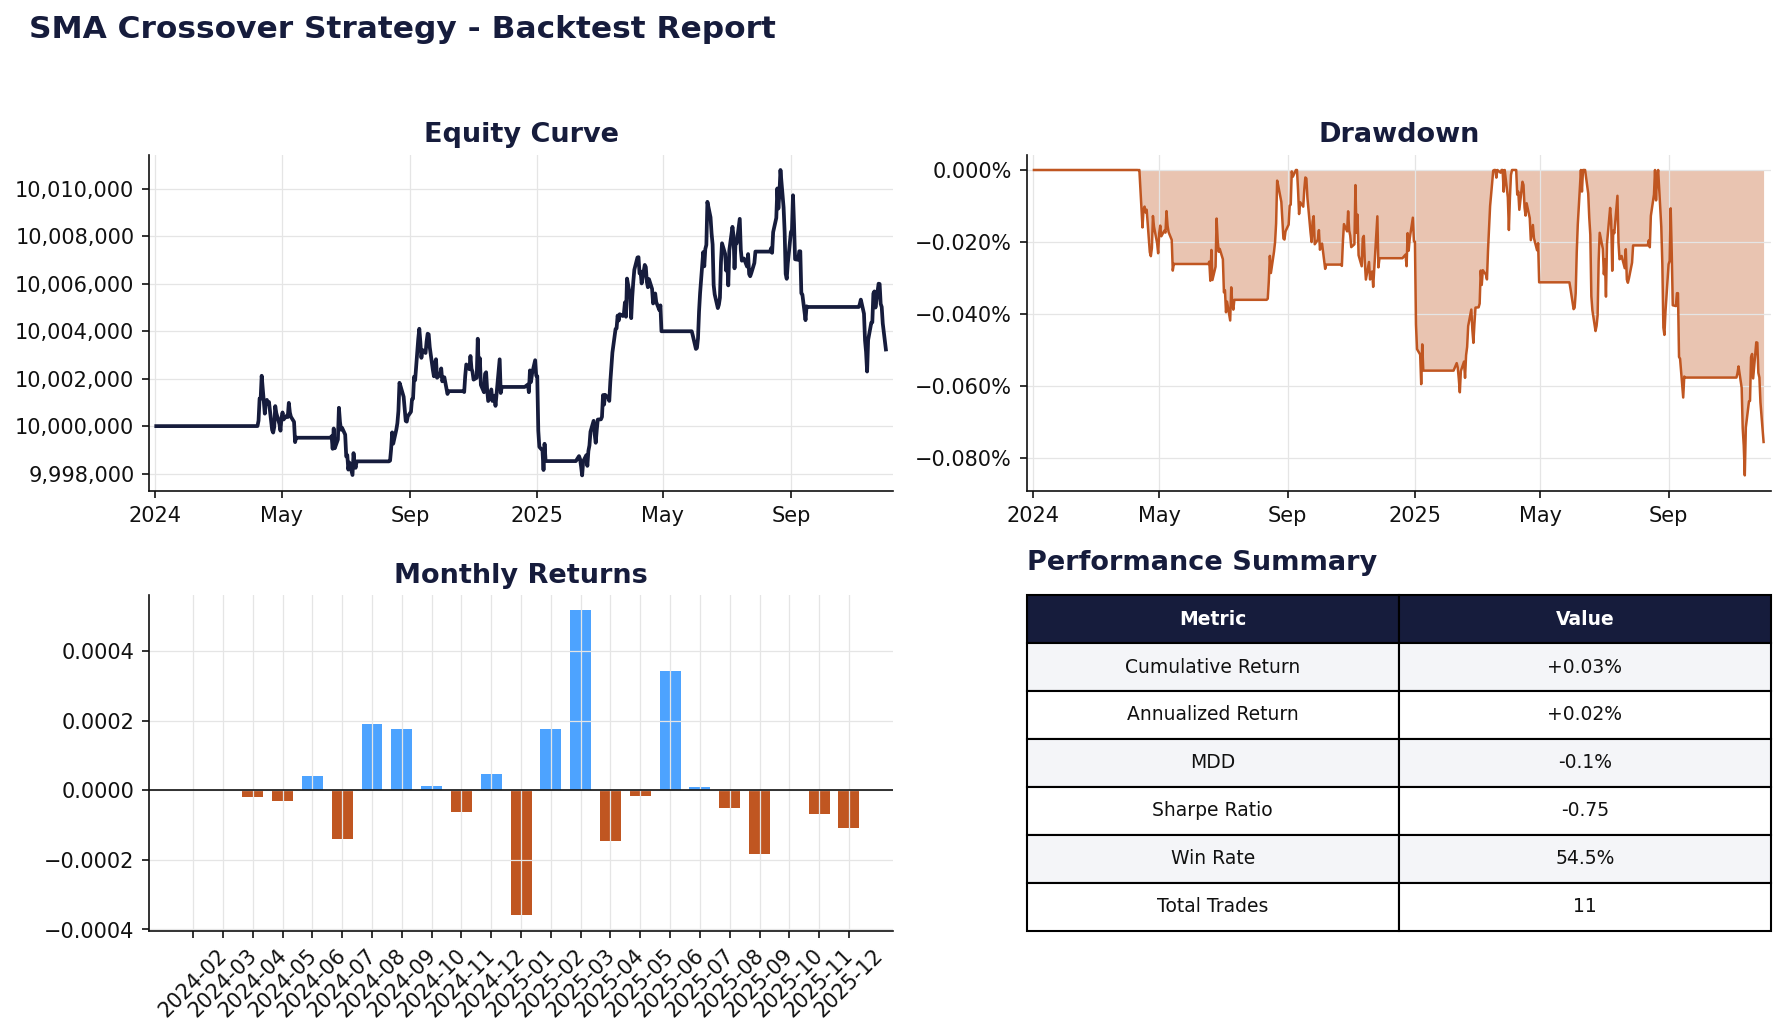
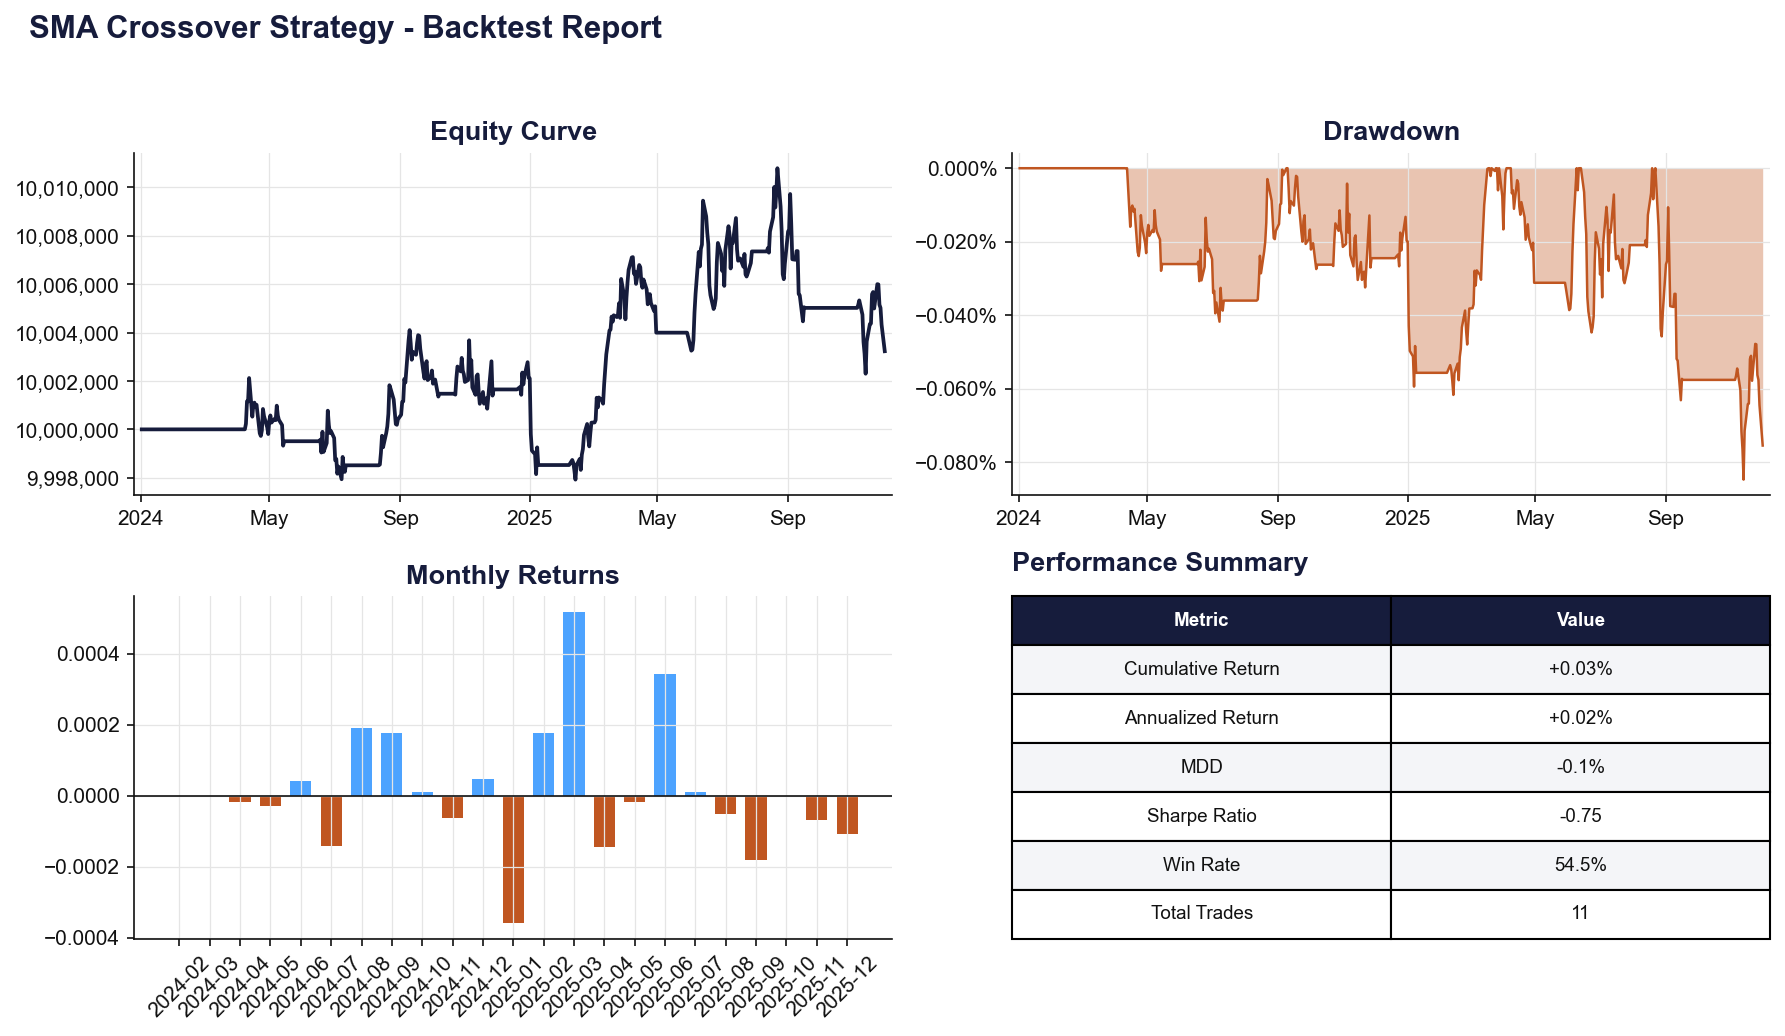
Update

diff --git a/mock-trading/18th_ahn_hyunseung/README.md b/mock-trading/18th_ahn_hyunseung/README.md
@@ -1,0 +1,9 @@
+# [2026-2] 모의투자 포트폴리오 - [18기_홍길동]
+
+## 전략 (예시 — 실제 내용으로 수정해 주세요)
+* **핵심 로직:** 저PBR 가치주 스크리닝 및 20일 이동평균선 돌파 매매
+* **카페 링크:** [DART 네이버 카페 게시글 제목](여기에_카페_게시글_주소를_넣으세요)
+
+## 파일 설명 (예시 — 파일명·설명 자유)
+* `portfolio_screening.ipynb` : 초기 포트폴리오 종목 스크리닝 코드
+* `backtest_result.py` : 전략 성과 분석 및 시각화 코드

diff --git a/mock-trading/18th_cha_yuseong/README.md b/mock-trading/18th_cha_yuseong/README.md
@@ -1,0 +1,9 @@
+# [2026-2] 모의투자 포트폴리오 - [18기_홍길동]
+
+## 전략 (예시 — 실제 내용으로 수정해 주세요)
+* **핵심 로직:** 저PBR 가치주 스크리닝 및 20일 이동평균선 돌파 매매
+* **카페 링크:** [DART 네이버 카페 게시글 제목](여기에_카페_게시글_주소를_넣으세요)
+
+## 파일 설명 (예시 — 파일명·설명 자유)
+* `portfolio_screening.ipynb` : 초기 포트폴리오 종목 스크리닝 코드
+* `backtest_result.py` : 전략 성과 분석 및 시각화 코드

diff --git a/mock-trading/18th_choi_yeyoon/README.md b/mock-trading/18th_choi_yeyoon/README.md
@@ -1,0 +1,9 @@
+# [2026-2] 모의투자 포트폴리오 - [18기_홍길동]
+
+## 전략 (예시 — 실제 내용으로 수정해 주세요)
+* **핵심 로직:** 저PBR 가치주 스크리닝 및 20일 이동평균선 돌파 매매
+* **카페 링크:** [DART 네이버 카페 게시글 제목](여기에_카페_게시글_주소를_넣으세요)
+
+## 파일 설명 (예시 — 파일명·설명 자유)
+* `portfolio_screening.ipynb` : 초기 포트폴리오 종목 스크리닝 코드
+* `backtest_result.py` : 전략 성과 분석 및 시각화 코드

diff --git a/mock-trading/18th_jung_jinyoung/README.md b/mock-trading/18th_jung_jinyoung/README.md
@@ -1,0 +1,9 @@
+# [2026-2] 모의투자 포트폴리오 - [18기_홍길동]
+
+## 전략 (예시 — 실제 내용으로 수정해 주세요)
+* **핵심 로직:** 저PBR 가치주 스크리닝 및 20일 이동평균선 돌파 매매
+* **카페 링크:** [DART 네이버 카페 게시글 제목](여기에_카페_게시글_주소를_넣으세요)
+
+## 파일 설명 (예시 — 파일명·설명 자유)
+* `portfolio_screening.ipynb` : 초기 포트폴리오 종목 스크리닝 코드
+* `backtest_result.py` : 전략 성과 분석 및 시각화 코드

diff --git a/mock-trading/18th_kang_jiho/README.md b/mock-trading/18th_kang_jiho/README.md
@@ -1,0 +1,9 @@
+# [2026-2] 모의투자 포트폴리오 - [18기_홍길동]
+
+## 전략 (예시 — 실제 내용으로 수정해 주세요)
+* **핵심 로직:** 저PBR 가치주 스크리닝 및 20일 이동평균선 돌파 매매
+* **카페 링크:** [DART 네이버 카페 게시글 제목](여기에_카페_게시글_주소를_넣으세요)
+
+## 파일 설명 (예시 — 파일명·설명 자유)
+* `portfolio_screening.ipynb` : 초기 포트폴리오 종목 스크리닝 코드
+* `backtest_result.py` : 전략 성과 분석 및 시각화 코드

diff --git a/mock-trading/18th_kim_jiwoo/README.md b/mock-trading/18th_kim_jiwoo/README.md
@@ -1,0 +1,9 @@
+# [2026-2] 모의투자 포트폴리오 - [18기_홍길동]
+
+## 전략 (예시 — 실제 내용으로 수정해 주세요)
+* **핵심 로직:** 저PBR 가치주 스크리닝 및 20일 이동평균선 돌파 매매
+* **카페 링크:** [DART 네이버 카페 게시글 제목](여기에_카페_게시글_주소를_넣으세요)
+
+## 파일 설명 (예시 — 파일명·설명 자유)
+* `portfolio_screening.ipynb` : 초기 포트폴리오 종목 스크리닝 코드
+* `backtest_result.py` : 전략 성과 분석 및 시각화 코드

diff --git a/mock-trading/18th_ko_junseong/README.md b/mock-trading/18th_ko_junseong/README.md
@@ -1,0 +1,9 @@
+# [2026-2] 모의투자 포트폴리오 - [18기_홍길동]
+
+## 전략 (예시 — 실제 내용으로 수정해 주세요)
+* **핵심 로직:** 저PBR 가치주 스크리닝 및 20일 이동평균선 돌파 매매
+* **카페 링크:** [DART 네이버 카페 게시글 제목](여기에_카페_게시글_주소를_넣으세요)
+
+## 파일 설명 (예시 — 파일명·설명 자유)
+* `portfolio_screening.ipynb` : 초기 포트폴리오 종목 스크리닝 코드
+* `backtest_result.py` : 전략 성과 분석 및 시각화 코드

diff --git a/mock-trading/18th_lee_jinsu/README.md b/mock-trading/18th_lee_jinsu/README.md
@@ -1,0 +1,9 @@
+# [2026-2] 모의투자 포트폴리오 - [18기_홍길동]
+
+## 전략 (예시 — 실제 내용으로 수정해 주세요)
+* **핵심 로직:** 저PBR 가치주 스크리닝 및 20일 이동평균선 돌파 매매
+* **카페 링크:** [DART 네이버 카페 게시글 제목](여기에_카페_게시글_주소를_넣으세요)
+
+## 파일 설명 (예시 — 파일명·설명 자유)
+* `portfolio_screening.ipynb` : 초기 포트폴리오 종목 스크리닝 코드
+* `backtest_result.py` : 전략 성과 분석 및 시각화 코드

diff --git a/mock-trading/18th_park_seirang/README.md b/mock-trading/18th_park_seirang/README.md
@@ -1,0 +1,9 @@
+# [2026-2] 모의투자 포트폴리오 - [18기_홍길동]
+
+## 전략 (예시 — 실제 내용으로 수정해 주세요)
+* **핵심 로직:** 저PBR 가치주 스크리닝 및 20일 이동평균선 돌파 매매
+* **카페 링크:** [DART 네이버 카페 게시글 제목](여기에_카페_게시글_주소를_넣으세요)
+
+## 파일 설명 (예시 — 파일명·설명 자유)
+* `portfolio_screening.ipynb` : 초기 포트폴리오 종목 스크리닝 코드
+* `backtest_result.py` : 전략 성과 분석 및 시각화 코드

diff --git a/mock-trading/18th_park_suyeon/README.md b/mock-trading/18th_park_suyeon/README.md
@@ -1,0 +1,9 @@
+# [2026-2] 모의투자 포트폴리오 - [18기_홍길동]
+
+## 전략 (예시 — 실제 내용으로 수정해 주세요)
+* **핵심 로직:** 저PBR 가치주 스크리닝 및 20일 이동평균선 돌파 매매
+* **카페 링크:** [DART 네이버 카페 게시글 제목](여기에_카페_게시글_주소를_넣으세요)
+
+## 파일 설명 (예시 — 파일명·설명 자유)
+* `portfolio_screening.ipynb` : 초기 포트폴리오 종목 스크리닝 코드
+* `backtest_result.py` : 전략 성과 분석 및 시각화 코드

diff --git a/mock-trading/18th_shin_minjeong/README.md b/mock-trading/18th_shin_minjeong/README.md
@@ -1,0 +1,9 @@
+# [2026-2] 모의투자 포트폴리오 - [18기_홍길동]
+
+## 전략 (예시 — 실제 내용으로 수정해 주세요)
+* **핵심 로직:** 저PBR 가치주 스크리닝 및 20일 이동평균선 돌파 매매
+* **카페 링크:** [DART 네이버 카페 게시글 제목](여기에_카페_게시글_주소를_넣으세요)
+
+## 파일 설명 (예시 — 파일명·설명 자유)
+* `portfolio_screening.ipynb` : 초기 포트폴리오 종목 스크리닝 코드
+* `backtest_result.py` : 전략 성과 분석 및 시각화 코드

diff --git a/mock-trading/18th_ye_seolwoo/README.md b/mock-trading/18th_ye_seolwoo/README.md
@@ -1,0 +1,9 @@
+# [2026-2] 모의투자 포트폴리오 - [18기_홍길동]
+
+## 전략 (예시 — 실제 내용으로 수정해 주세요)
+* **핵심 로직:** 저PBR 가치주 스크리닝 및 20일 이동평균선 돌파 매매
+* **카페 링크:** [DART 네이버 카페 게시글 제목](여기에_카페_게시글_주소를_넣으세요)
+
+## 파일 설명 (예시 — 파일명·설명 자유)
+* `portfolio_screening.ipynb` : 초기 포트폴리오 종목 스크리닝 코드
+* `backtest_result.py` : 전략 성과 분석 및 시각화 코드
